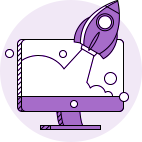
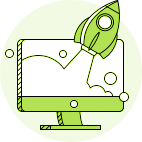
step

diff --git a/css/main.css b/css/main.css
@@ -271,10 +271,10 @@ select:-webkit-autofill:focus {
     color: #222;
     padding: 0 !important; }
     .btn-phone-header .phone_prefix {
-      color: #7d3aa1; }
+      color: #9ed02f; }
   .btn-outline-light {
     font-family: "Proxima Regular";
-    font-size: 18px;
+    font-size: 20px !important;
     padding: 15px 15px;
     color: #fff;
     -webkit-transition: all 0.3s;
@@ -286,15 +286,14 @@ select:-webkit-autofill:focus {
       color: #fff; }
   .btn-outline-yellow {
     font-family: "Proxima Regular";
-    font-size: 18px;
+    font-size: 20px !important;
     padding: 15px 15px;
     color: #7d3aa1;
     -webkit-transition: all 0.3s;
     -o-transition: all 0.3s;
     transition: all 0.3s;
-    border: 1px solid #7d3aa1; }
+    border: 1px solid #7d3aa1 !important; }
     .btn-outline-yellow:hover {
-      background: none;
       color: #7d3aa1; }
 
 .nav_bar {
@@ -321,7 +320,7 @@ select:-webkit-autofill:focus {
       position: relative;
       top: -3px;
       font-size: 36px;
-      color: #7d3aa1;
+      color: #9ed02f;
       cursor: pointer; }
       @media screen and (max-width: 960px) {
         .nav_bar__toggler .icon {
@@ -409,7 +408,7 @@ select:-webkit-autofill:focus {
   font-family: "Proxima Regular";
   text-align: center;
   font-size: 1.5rem;
-  color: #d3bfdb;
+  color: #fff;
   max-width: 720px;
   margin: 0 auto; }
 
@@ -730,7 +729,7 @@ select:-webkit-autofill:focus {
   -o-transition: all .3s;
   transition: all .3s;
   background: #fff;
-  border-bottom: 2px solid #7d3aa1;
+  border-bottom: 2px solid #9ed02f;
   -webkit-box-shadow: 0 5px 10px -10px rgba(0, 0, 0, 0.6);
           box-shadow: 0 5px 10px -10px rgba(0, 0, 0, 0.6); }
   .header__wrap {
@@ -777,7 +776,7 @@ select:-webkit-autofill:focus {
             order: 2; }
     .header__phone .icon {
       font-size: 26px;
-      color: #7d3aa1;
+      color: #9ed02f;
       padding-right: 5px; }
   .header__time {
     padding: 2px 0;
@@ -805,7 +804,7 @@ select:-webkit-autofill:focus {
   text-align: center;
   font-family: "Proxima Regular";
   color: #fff;
-  background-color: #7d3aa1; }
+  background: #9ed02f; }
 
 .home {
   background: url("../img/home.jpg") no-repeat center center;
@@ -818,7 +817,7 @@ select:-webkit-autofill:focus {
         -ms-flex-align: center;
             align-items: center;
     background: #7d3aa1;
-    opacity: 0.90;
+    opacity: 0.8;
     -webkit-box-sizing: padding-box;
             box-sizing: padding-box;
     padding-top: 65px; }
@@ -901,7 +900,7 @@ select:-webkit-autofill:focus {
         font-size: 26px; } }
 
 .policy {
-  border-top: 2px solid #7d3aa1;
+  border-top: 2px solid #9ed02f;
   min-height: 100vh;
   background: url("../img/screen-3.jpg") no-repeat center center;
   -webkit-background-size: cover;
@@ -1053,14 +1052,14 @@ select:-webkit-autofill:focus {
       display: inline-block;
       width: 5px;
       height: 5px;
-      background-color: #7d3aa1;
+      background-color: #9ed02f;
       position: relative;
       top: -3px;
       margin-right: 5px; }
 
 .contacts {
   background-color: #f5f5f5;
-  border-top: 2px solid #7d3aa1;
+  border-top: 2px solid #9ed02f;
   padding: 60px 0; }
   .contacts__title {
     font-family: "Proxima Semibold";
